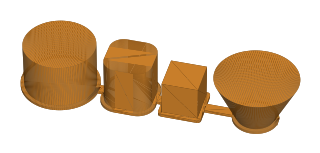
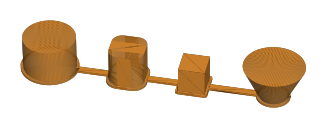
Seam test object: 20 mm between the features (the slicer put three of four seams on the sides facing a neighbour, out of a camera's reach in 5 mm gaps); docs/V.md: T26-000030 did not finish, what its G-code showed, print speed against time

diff --git a/engines/python/calib_tool.py b/engines/python/calib_tool.py
@@ -14,7 +14,8 @@ kind:
                ironing settings alone (ironing is a setting of the whole print, so a big object would spend most of
                its time polishing its own base plate)
   seam         one plate, about 30 minutes: a 30 mm cylinder, a 20 mm box with rounded corners and a cone leaning out
-               25 degrees, all 20 mm tall - smooth walls where the seam has no corner to hide in - and the 15 mm cube
+               25 degrees, all 20 mm tall - smooth walls where the seam has no corner to hide in - and the 15 mm cube,
+               20 mm apart so every side can be photographed
   temp_tower   floors of 10 mm (params: floors 3-10); every floor carries a 14 mm bridge and a 45 degree overhang.
                The temperature per floor is written into the G-code by the web layer (App\\Domain\\Farm\\TowerGcode),
                floor 1 is the bottom one
@@ -233,6 +234,9 @@ def seam(M, p):
     z0 = plate_t
     h = 20.0
     solid = M.Manifold()
+    # 20 mm between neighbours: the slicer put three of the four seams on the sides facing the next feature, and
+    # in the first plate's 5 mm gaps no camera could see them (T26-000030, 10 Oct 2026)
+    gap = 20.0
 
     cyl_d = 30.0
     solid += M.Manifold.cylinder(h, cyl_d / 2, -1.0, 128).translate([18, 18, z0])
@@ -240,17 +244,19 @@ def seam(M, p):
 
     side, radius = 20.0, 6.0
     rounded = M.CrossSection.square([side - 2 * radius, side - 2 * radius]).offset(radius, M.JoinType.Round, 2.0, 96)
-    solid += rounded.extrude(h).translate([38 + radius, 8 + radius, z0])
-    features.append({"name": "rounded_box", "at": [38, 8], "size": [side, side, h], "corner_radius": radius, "checks": ["seam"]})
+    bx = 3 + cyl_d + gap
+    solid += rounded.extrude(h).translate([bx + radius, 8 + radius, z0])
+    features.append({"name": "rounded_box", "at": [bx, 8], "size": [side, side, h], "corner_radius": radius, "checks": ["seam"]})
 
     cube = 15.0
-    solid += box(M, 63, 10.5, z0, cube, cube, cube)
-    features.append({"name": "cube", "at": [63, 10.5], "size": [cube, cube, cube], "checks": ["dimensions", "corners", "seam_in_corner"]})
+    qx = bx + side + gap
+    solid += box(M, qx, 10.5, z0, cube, cube, cube)
+    features.append({"name": "cube", "at": [qx, 10.5], "size": [cube, cube, cube], "checks": ["dimensions", "corners", "seam_in_corner"]})
 
     # 25 degrees from the vertical: a tenth of a millimetre of overhang per 0.2 mm layer, a quarter of the wall's width
     low_d, lean = 16.0, 25.0
     top_d = round(low_d + 2 * h * math.tan(math.radians(lean)), 2)
-    cx = 83 + top_d / 2
+    cx = qx + cube + gap + top_d / 2
     solid += M.Manifold.cylinder(h, low_d / 2, top_d / 2, 128).translate([cx, 18, z0])
     features.append({"name": "cone", "at": [cx, 18], "diameters": [low_d, top_d], "lean": lean, "height": h, "checks": ["seam", "overhang"]})
 
